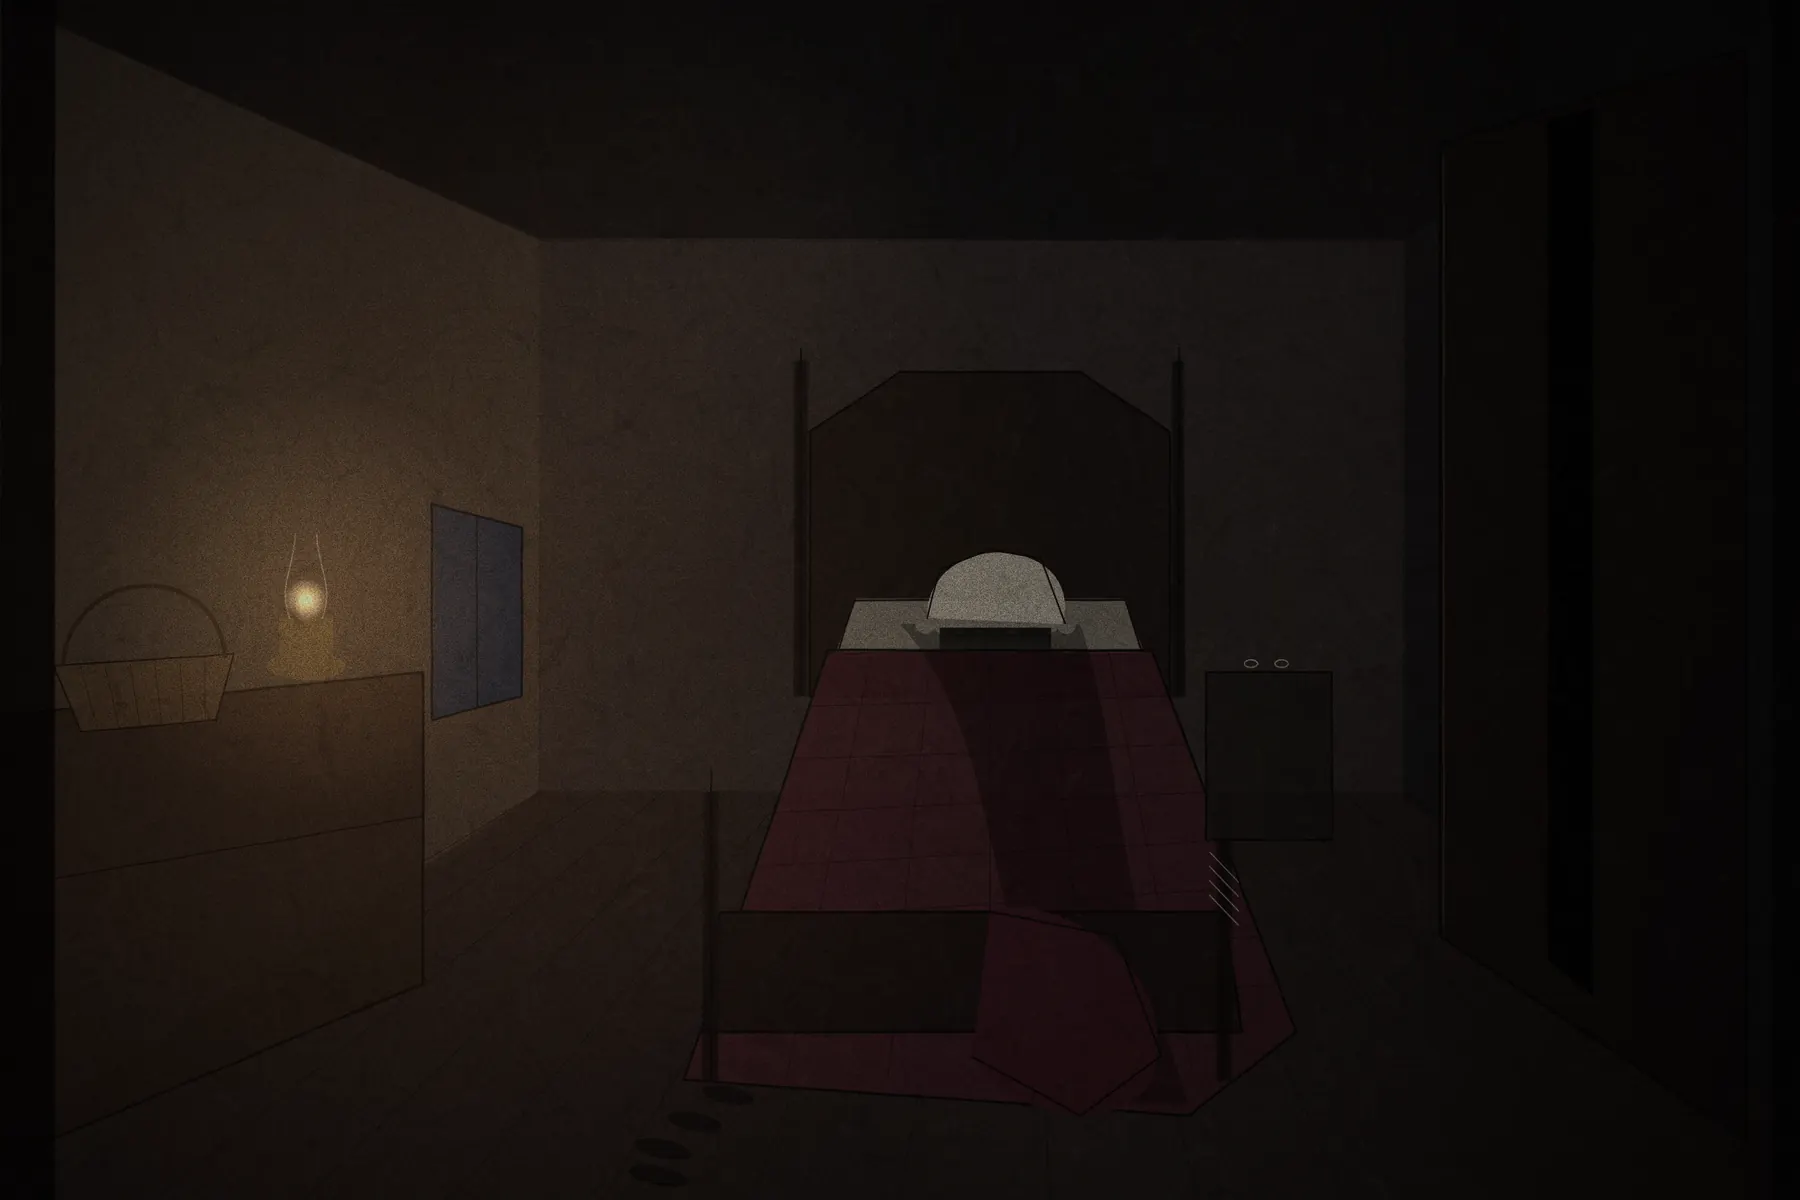
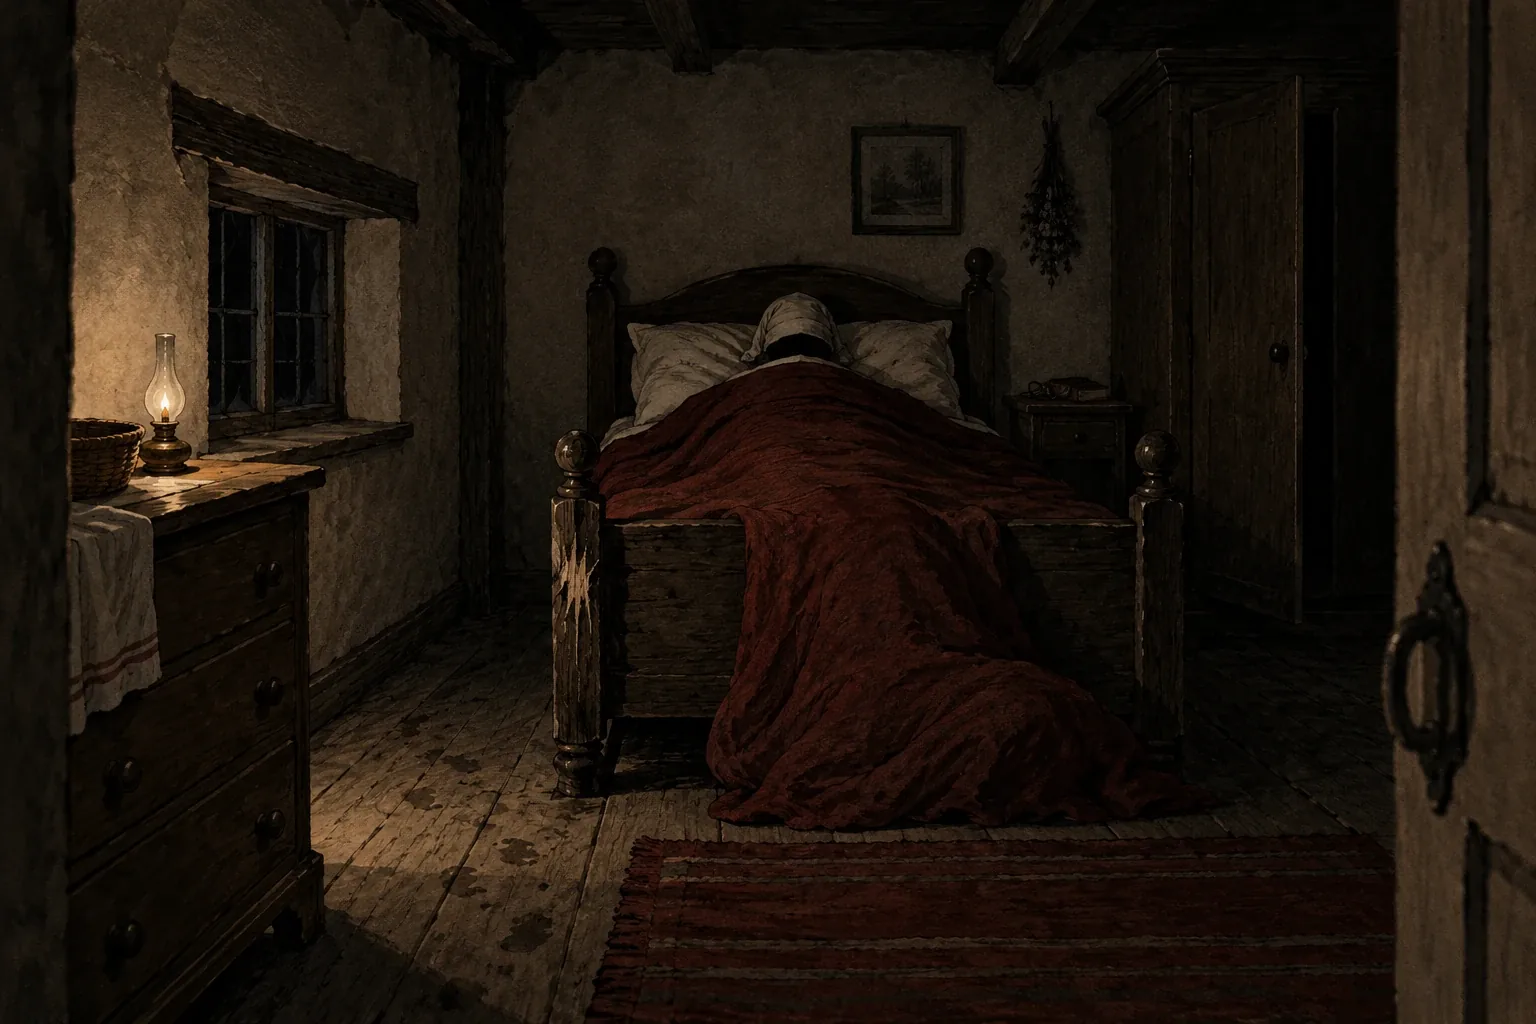
Use the author's own AI-generated Illustrations 1 and 2
Claude-Session: https://claude.ai/code/session_013Ueg5vFBDcAyDydNwx8Pwo

diff --git a/src/content/site.ts b/src/content/site.ts
@@ -51,7 +51,12 @@ export const credits: CreditGroup[] = [
     heading: 'AI-Generated or AI-Assisted Media',
     items: [
       {
-        label: 'Opening film, Video 2, Illustrations 1 & 2',
+        label: 'Illustrations 1 & 2',
+        value: 'AI-generated by the author with [tool and version], [date], from the prompts in the author’s media brief.',
+        pending: true,
+      },
+      {
+        label: 'Opening film & Video 2',
         value:
           'AI-generated: painted procedurally in code (HTML canvas) by Claude (Anthropic) to the author’s media brief, 28 Oct 2026. Source code in tools/media/ in the project repository.',
       },
